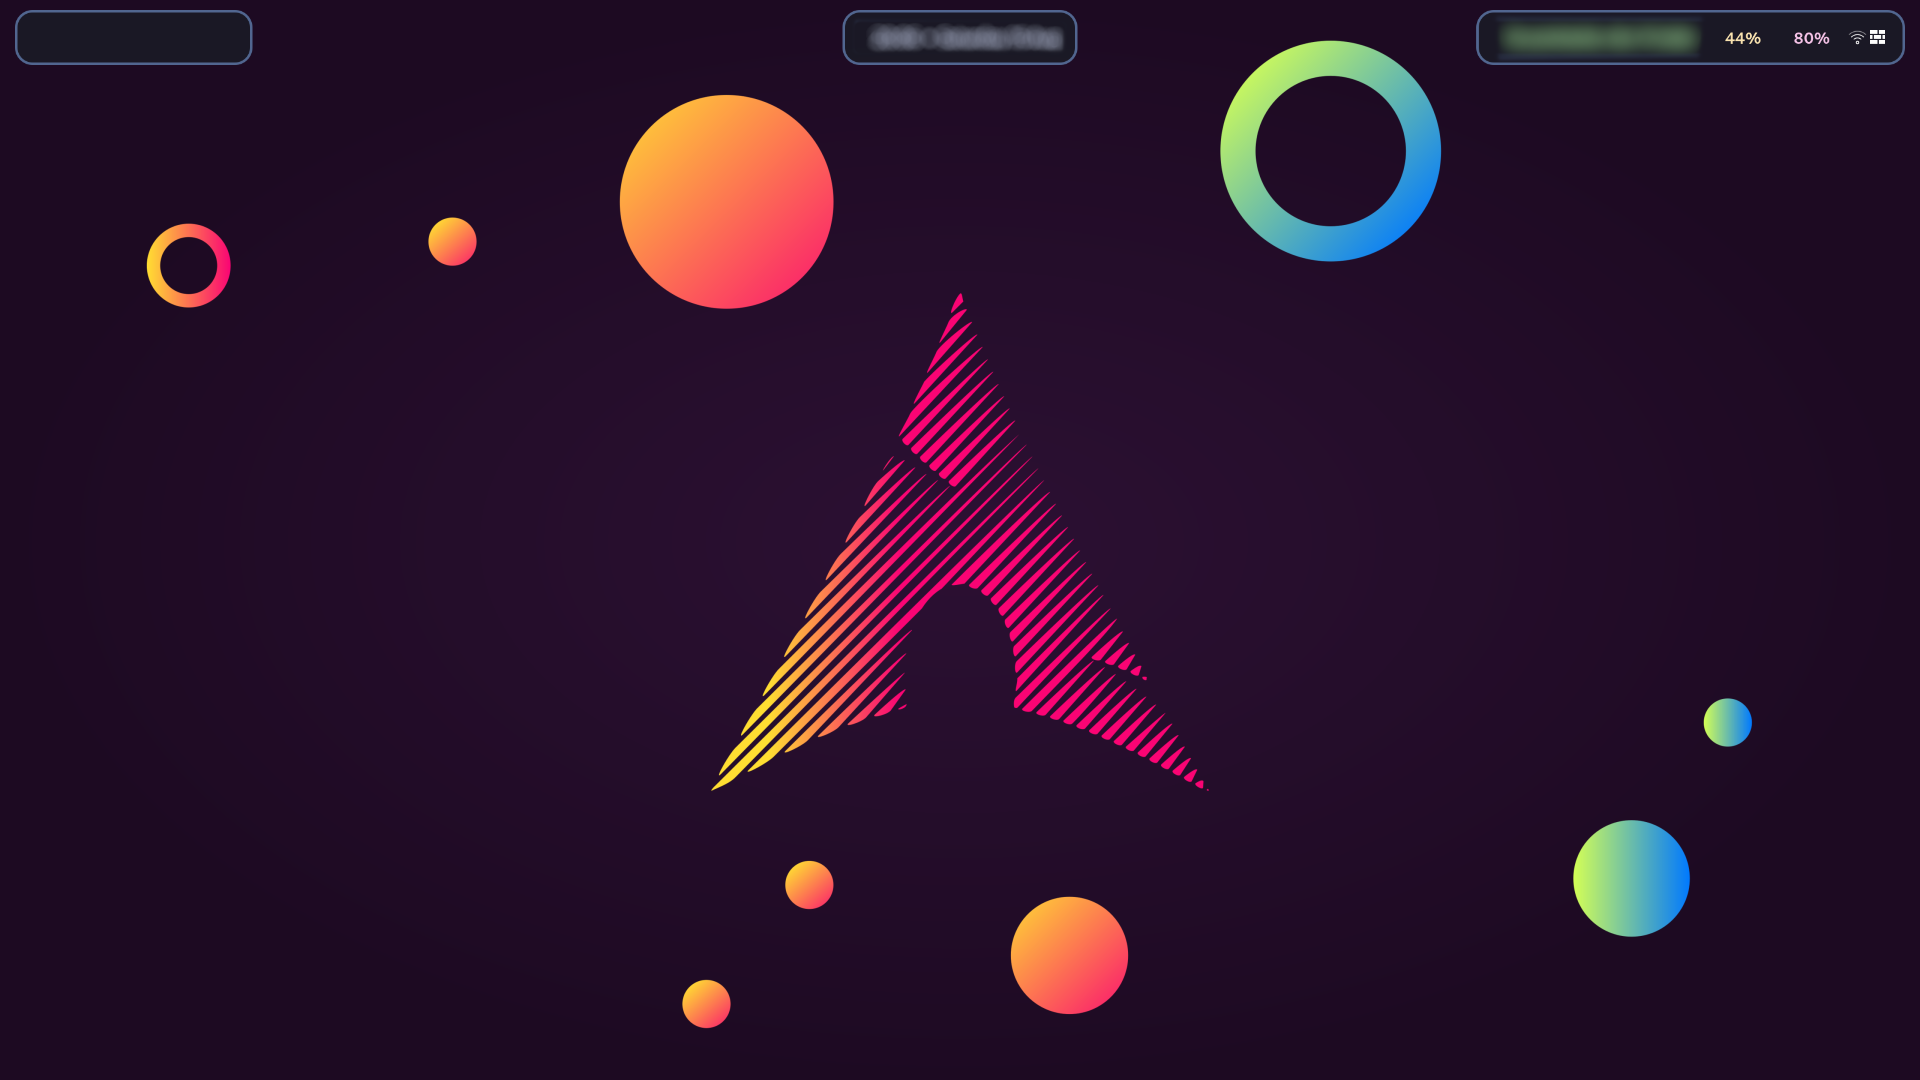
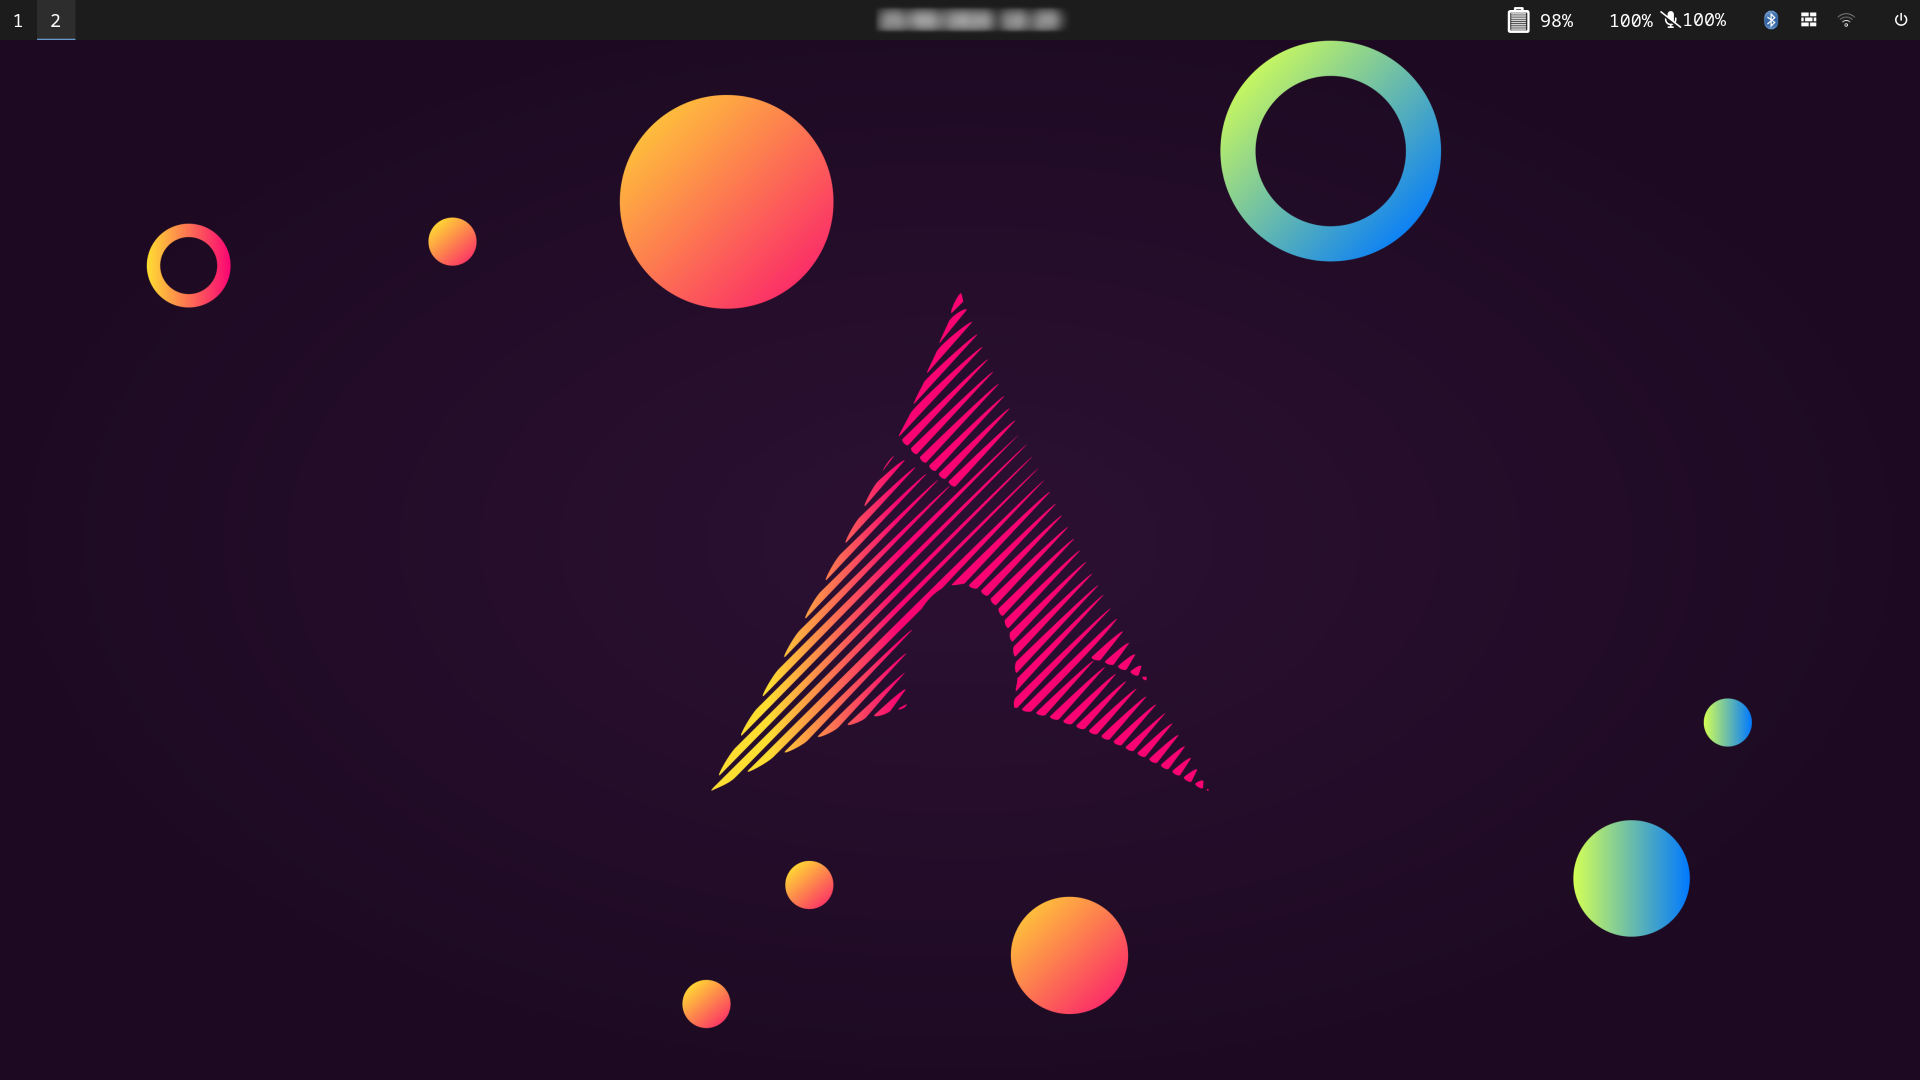
I switched to ironbar

Changed region(s): [[0.7812, 0.0, 1.0, 0.0611], [0.4375, 0.0, 0.5625, 0.0611], [0.0, 0.0, 0.0625, 0.0611]]

diff --git a/ironbar/style.css b/ironbar/style.css
@@ -1,0 +1,97 @@
+:root {
+    --color-dark-primary: #1c1c1c;
+    --color-dark-secondary: #2d2d2d;
+    --color-white: #fff;
+    --color-active: #6699cc;
+    --color-urgent: #8f0a0a;
+
+    --margin-lg: 1em;
+    --margin-sm: 0.5em;
+}
+
+* {
+    border-radius: 0;
+    border: none;
+    box-shadow: none;
+    background-image: none;
+    font-family: monospace;
+}
+
+scale > trough {
+    background-color: var(--color-dark-secondary);
+}
+
+scale > trough > highlight {
+    background-color: var(--color-active);
+    border-style: solid;
+    border-color: var(--color-active);
+    border-width: 0.2em;
+}
+
+scale > trough > slider {
+    background-color: var(--color-white);
+}
+
+switch > slider {
+    background-color: var(--color-white);
+}
+
+switch:checked {
+    background-color: var(--color-active);
+}
+
+switch:not(:checked) {
+  background-color: var(--color-dark-secondary);
+}
+
+#bar, popover, popover contents, calendar, popover .view {
+    background-color: var(--color-dark-primary);
+}
+
+box, button, label {
+    background-color: #0000;
+    color: var(--color-white);
+}
+
+button {
+    padding-left: var(--margin-sm);
+    padding-right: var(--margin-sm);
+}
+
+button:hover, button:active, *:selected {
+    background-color: var(--color-dark-secondary);
+}
+
+#end > * + * {
+    margin-left: var(--margin-lg);
+}
+
+.sysinfo > * + * {
+    margin-left: var(--margin-sm);
+}
+
+.clock {
+    font-weight: bold;
+    margin-left: 15px;
+}
+
+.popup-clock .calendar-clock {
+    font-size: 2.0em;
+}
+
+.popup-clock .calendar .today {
+    background-color: var(--color-active);
+}
+
+.workspaces .item.visible {
+    box-shadow: inset 0 -1px var(--color-white);
+}
+
+.workspaces .item.focused {
+    box-shadow: inset 0 -1px var(--color-active);
+    background-color: var(--color-dark-secondary);
+}
+
+.workspaces .item.urgent {
+    background-color: var(--color-urgent);
+}

diff --git a/readme.md b/readme.md
@@ -3,7 +3,7 @@ This is a file wich i explain dependencies and final
 apperince 
 ## Dependencies
 Niri
-Waybar
+Ironbar
 Fuzzel
 Swaybg
 ## How to modifies your config.kdl 
@@ -18,7 +18,15 @@ In the line
 ``` Kdl
 Mod+T hotkey-overlay-title="Open a Terminal: kitty" { spawn "kitty"; }
 ```
-you can modify kitty with your favourite terminal emulator (for exaples UXterm Xterm Alacritty Konsole Gnome-terminal)
+change kitty with your file manager or the shortcut with Mod(In normal desktop super)+T in Mod+K for exaples  
+### Change "default" file manager 
+In the line
+``` Kdl
+Mod+E { spawn "thunar"; } 
+```
+change thunar with your file manager or the shortcut with Mod(In normal desktop super)+E in Mod+K for exaples  
+
+You can modify kitty with your favourite terminal emulator (for exaples UXterm Xterm Alacritty Konsole Gnome-terminal)
 for more information visit https://niri-wm.github.io/niri/Getting-Started.html
 
 ![My desktop](image.png)
